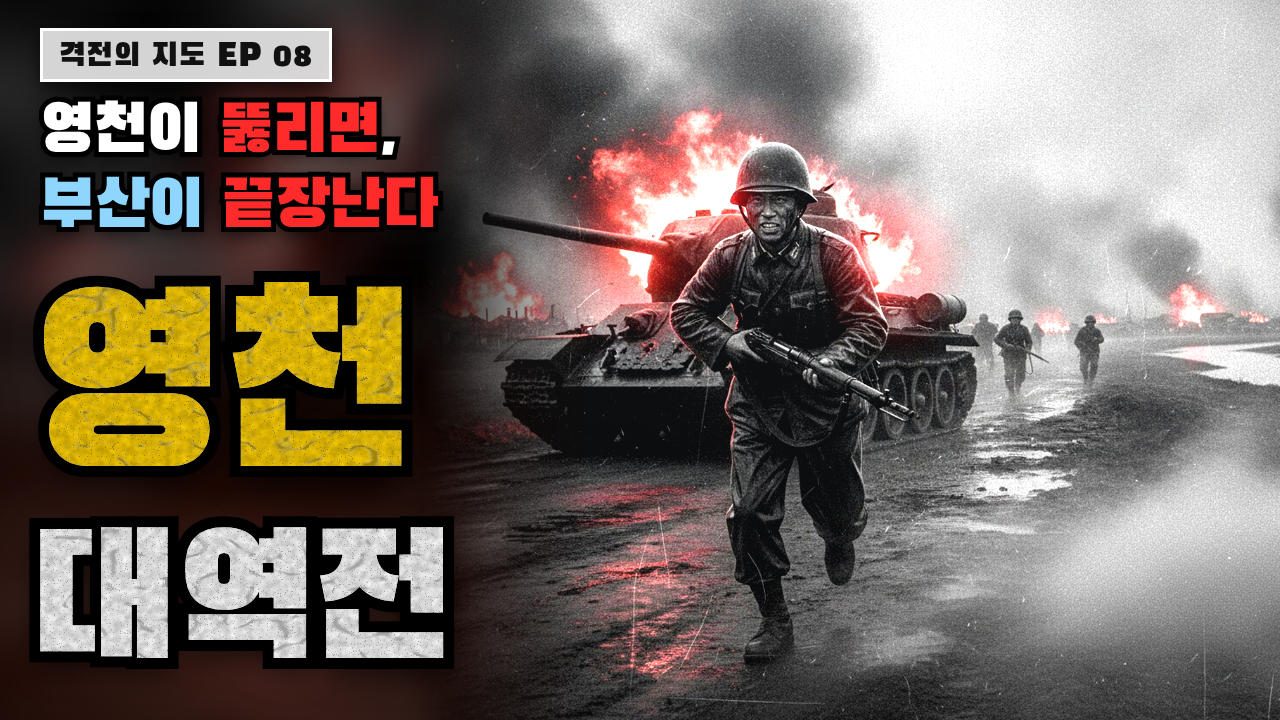
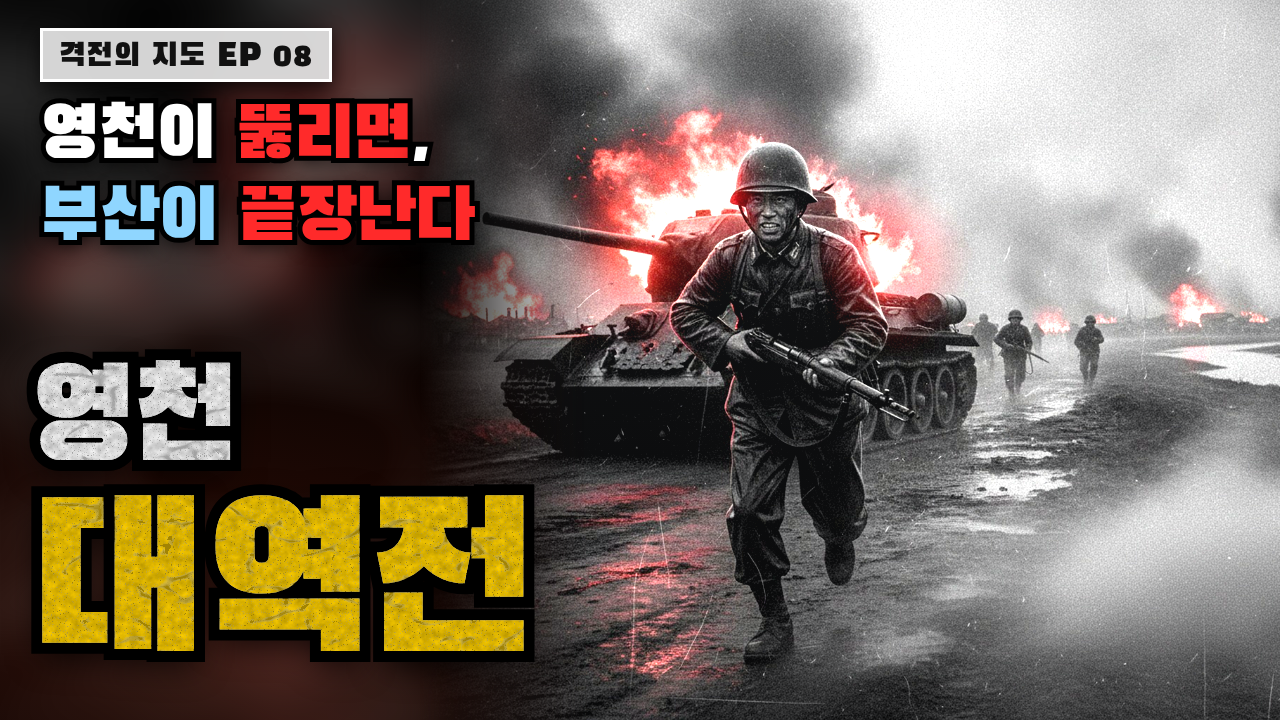
EP08 썸네일: 맨 아래 줄 노랑 강조·크게, 위 줄은 흰색 작게(한·영 통일), 카피 글자 확대
Claude-Session: https://claude.ai/code/session_01AkMeCKzBV9pYTTpeGUsdsB

Changed region(s): [[0.0, 0.1222, 0.4375, 0.9472]]

diff --git a/remotion/Thumbnail.tsx b/remotion/Thumbnail.tsx
@@ -268,7 +268,7 @@ const REF_EN: Record<string, RefDef> = {
   jangjin: { ep: "06", mid: [[["-40°F FREEZE:", "s"]], [["BREAKING ", "w"], ["120,000 ENEMY", "r"]]], key: "CHOSIN RESERVOIR", keyStyle: "ice" },
   betty: { ep: "07", mid: [[["34 MEN", "r"], [" VS", "w"]], [["A BATTALION", "s"]]], key: "OUTPOST BETTY", keyStyle: "stone" },
   yeongcheon: { ep: "08", mid: [[["THE LAST LINE:", "r"]], [["SAVING THE", "w"]], [["PUSAN PERIMETER", "s"]]], key: "BATTLE OF YEONGCHEON", keyStyle: "stone",
-    split: { imgX: "22%", midSize: 70, keys: [{ text: "BATTLE OF", style: "stone", size: 92 }, { text: "YEONGCHEON", style: "stone", size: 150 }] } },
+    split: { imgX: "22%", midSize: 78, keys: [{ text: "BATTLE OF", style: "stone", size: 100 }, { text: "YEONGCHEON", style: "yellow", size: 160 }] } },
 };
 const REF: Record<string, RefDef> = {
   yongmunsan: { ep: "01", mid: [[["중공군 ", "w"], ["3개 사단", "r"], [" 격멸,", "w"]], [["1개 연대의 기적", "s"]]], key: "용문산 전투", keyStyle: "yellow" },
@@ -279,7 +279,7 @@ const REF: Record<string, RefDef> = {
   jangjin: { ep: "06", mid: [[["영하 40도", "s"], [" 고립,", "w"]], [["12만 포위망", "r"], ["을 찢다", "w"]]], key: "장진호 전투", keyStyle: "stone" },
   betty: { ep: "07", mid: [[["소대원 ", "w"], ["34명", "r"], [" vs ", "w"], ["중공군 대대", "r"]], [["휴전 12일 전의 혈전", "s"]]], key: "베티고지 전투", keyStyle: "yellow" },
   yeongcheon: { ep: "08", mid: [[["영천이 ", "w"], ["뚫리면", "r"], [",", "w"]], [["부산이 ", "s"], ["끝장난다", "r"]]], key: "영천 대역전", keyStyle: "yellow",
-    split: { imgX: "22%", midSize: 66, keys: [{ text: "영천", style: "yellow", size: 236 }, { text: "대역전", style: "stone", size: 172 }] } },
+    split: { imgX: "22%", midSize: 72, keys: [{ text: "영천", style: "stone", size: 128 }, { text: "대역전", style: "yellow", size: 205 }] } },
 };
 const CrackDefs: React.FC = () => (
   <svg width={0} height={0} style={{ position: "absolute" }}>
@@ -402,7 +402,7 @@ const SplitThumb: React.FC<{ a: string; d: RefDef; en?: boolean }> = ({ a, d, en
           ))}
         </div>
       </div>
-      <div style={{ position: "absolute", left: 30, bottom: 26, display: "flex", flexDirection: "column", alignItems: "flex-start", gap: en ? 0 : 6 }}>
+      <div style={{ position: "absolute", left: 30, bottom: 26, display: "flex", flexDirection: "column", alignItems: "flex-start", gap: en ? 0 : 2 }}>
         {sp.keys.map((k, i) => (
           <KeyWord key={i} text={k.text} style={k.style} size={k.size} en={en} soft />
         ))}
